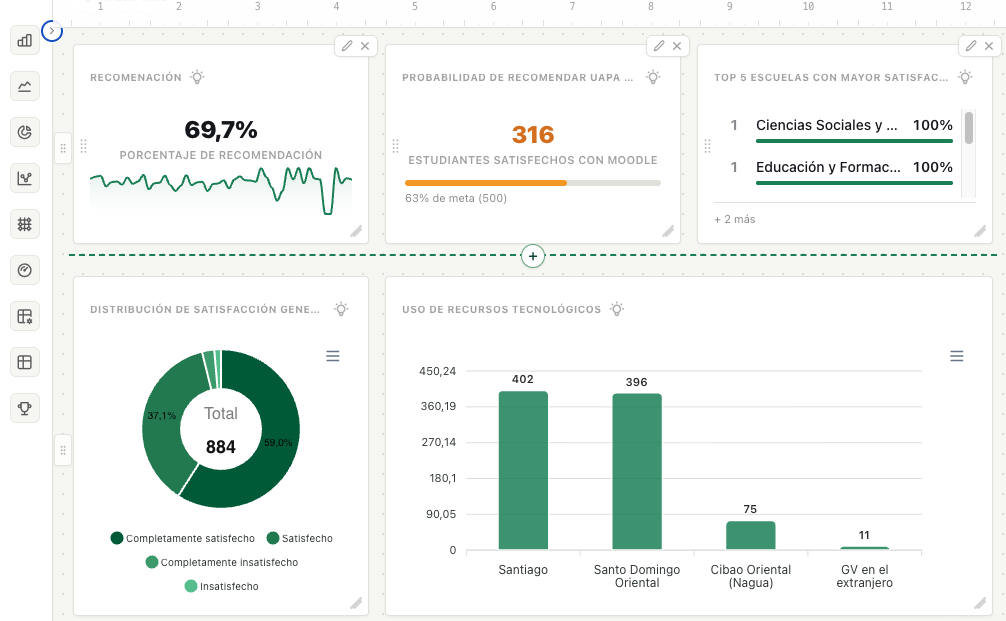
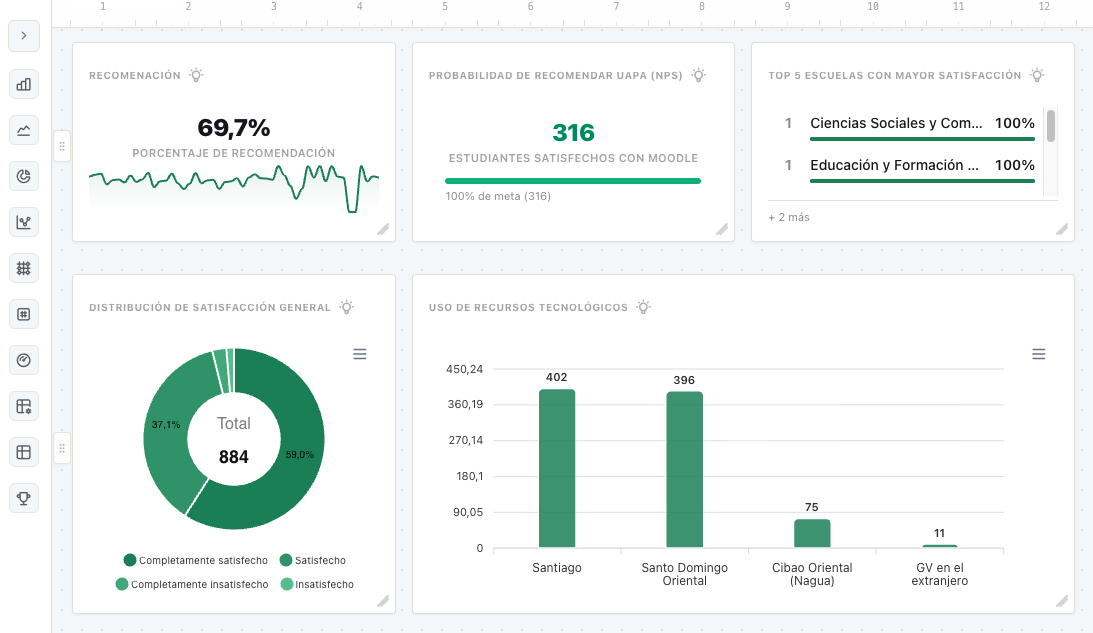
cambios en el home

diff --git a/sheets_reports/templates/home.html b/sheets_reports/templates/home.html
@@ -119,7 +119,7 @@
              class="group relative bg-white border border-line hover:border-moss-400 rounded overflow-hidden shadow-sm hover:shadow-md transition-all flex flex-col cursor-pointer">
             
             <!-- Botón de eliminar en hover -->
-            <button type="button" @click.stop.prevent="deleteTemplate(t.id)" title="Eliminar plantilla" aria-label="Eliminar plantilla"
+            <button type="button" x-show="t.can_delete" @click.stop.prevent="deleteTemplate(t.id)" title="Eliminar plantilla" aria-label="Eliminar plantilla"
                     class="absolute top-2 right-2 z-10 w-6 h-6 rounded bg-white/90 hover:bg-red-50 text-ink/40 hover:text-red-600 shadow-xs flex items-center justify-center transition opacity-0 group-hover:opacity-100 cursor-pointer">
               <i class="ti ti-trash text-xs" aria-hidden="true"></i>
             </button>

diff --git a/sheets_reports/views.py b/sheets_reports/views.py
@@ -133,7 +133,7 @@ def dashboard_list(request):
             dashboards = Dashboard.objects.filter(Q(owner=user) | Q(is_template=True)).prefetch_related("sources")
         else:
             dashboards = Dashboard.objects.filter(owner=user, is_template=False).prefetch_related("sources")
-        return JsonResponse([_serialize_dashboard(d) for d in dashboards], safe=False)
+        return JsonResponse([_serialize_dashboard(d, user) for d in dashboards], safe=False)
     try:
         data = _json_body(request)
     except ValueError as e:
@@ -243,14 +243,17 @@ def _columns_errors(columns) -> list[str]:
 @require_http_methods(["GET", "PUT", "DELETE"])
 def dashboard_detail(request, dashboard_id):
     """GET / PUT {nombre, primary_color} / DELETE de un tablero del usuario."""
+    if request.method == "DELETE":
+        dashboard = _deletable_dashboard(request, dashboard_id)
+        if not dashboard:
+            return _error("Dashboard no encontrado", status=404)
+        dashboard.delete()
+        return JsonResponse({"deleted": True})
     dashboard = _owned_dashboard(request, dashboard_id)
     if not dashboard:
         return _error("Dashboard no encontrado", status=404)
     if request.method == "GET":
         return JsonResponse(_serialize_dashboard(dashboard))
-    if request.method == "DELETE":
-        dashboard.delete()
-        return JsonResponse({"deleted": True})
     try:
         data = _json_body(request)
     except ValueError as e:
@@ -395,6 +398,17 @@ def _owned_dashboard(request, dashboard_id):
     return Dashboard.objects.filter(id=dashboard_id, owner=_get_user(request)).first()
 
 
+def _can_delete(user, dashboard) -> bool:
+    """Un tablero lo borra su dueño; una plantilla (la ven todos), también un superusuario."""
+    return dashboard.owner_id == user.id or (dashboard.is_template and user.is_superuser)
+
+
+def _deletable_dashboard(request, dashboard_id):
+    user = _get_user(request)
+    dashboard = Dashboard.objects.filter(id=dashboard_id).first()
+    return dashboard if dashboard and user and _can_delete(user, dashboard) else None
+
+
 def _owned_widget(request, widget_id):
     return Widget.objects.select_related("dashboard", "source").filter(
         id=widget_id, dashboard__owner=_get_user(request)
@@ -420,7 +434,7 @@ def _dashboard_source(dashboard, raw_id, default=None):
     return source
 
 
-def _serialize_dashboard(dashboard):
+def _serialize_dashboard(dashboard, user=None):
     data = {
         "id": dashboard.id,
         "nombre": dashboard.nombre,
@@ -436,6 +450,9 @@ def _serialize_dashboard(dashboard):
     # La miniatura solo interesa para la galería de plantillas: no se envía en los demás tableros.
     if data["is_template"]:
         data["thumbnail"] = getattr(dashboard, "thumbnail", "") or ""
+        # La galería solo muestra «Eliminar» a quien puede borrarla.
+        if user is not None:
+            data["can_delete"] = _can_delete(user, dashboard)
     return data
 
 

diff --git a/sheets_reports/tests/test_views.py b/sheets_reports/tests/test_views.py
@@ -586,6 +586,25 @@ class DashboardCrudTests(TestCase):
         self.assertEqual(self.client.get(f"/api/dashboards/{other.id}/").status_code, 404)
         self.assertEqual(self.client.delete(f"/api/dashboards/{other.id}/").status_code, 404)
 
+    def test_una_plantilla_la_borra_su_dueno_o_un_superusuario(self):
+        """Las plantillas las ven todos, pero «Eliminar» solo lo tiene su dueño o un superusuario."""
+        pepe = get_user_model().objects.create(username="pepe")
+        template, _ = make_board(pepe, nombre="Plantilla de Pepe")
+        template.is_template = True
+        template.save()
+        ajeno, _ = make_board(pepe, nombre="Tablero de Pepe")
+
+        listed = self.client.get("/api/dashboards/?is_template=1").json()
+        self.assertEqual([(t["id"], t["can_delete"]) for t in listed], [(template.id, False)])
+        self.assertEqual(self.client.delete(f"/api/dashboards/{template.id}/").status_code, 404)
+
+        self.client.force_login(get_user_model().objects.create(username="root", is_superuser=True))
+        self.assertTrue(self.client.get("/api/dashboards/?is_template=1").json()[0]["can_delete"])
+        # Un superusuario borra plantillas ajenas, no tableros ajenos.
+        self.assertEqual(self.client.delete(f"/api/dashboards/{ajeno.id}/").status_code, 404)
+        self.assertEqual(self.client.delete(f"/api/dashboards/{template.id}/").status_code, 200)
+        self.assertFalse(Dashboard.objects.filter(id=template.id).exists())
+
 class SinUsuarioTests(TestCase):
     def test_lista_explica_como_crear_usuario(self):
         r = self.client.get("/api/dashboards/")
